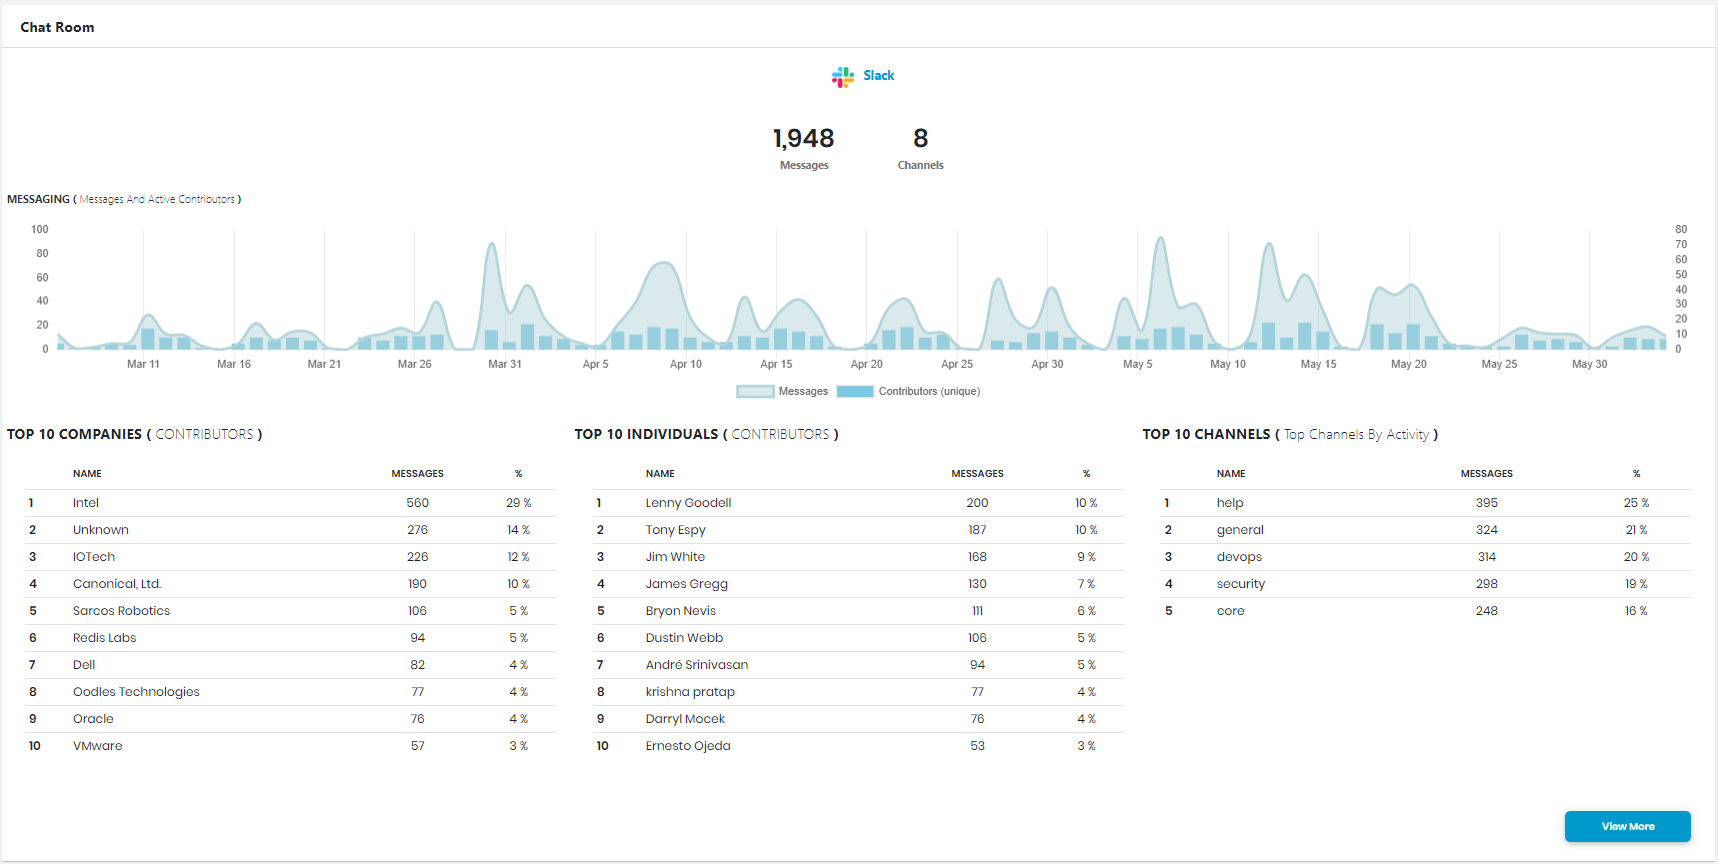
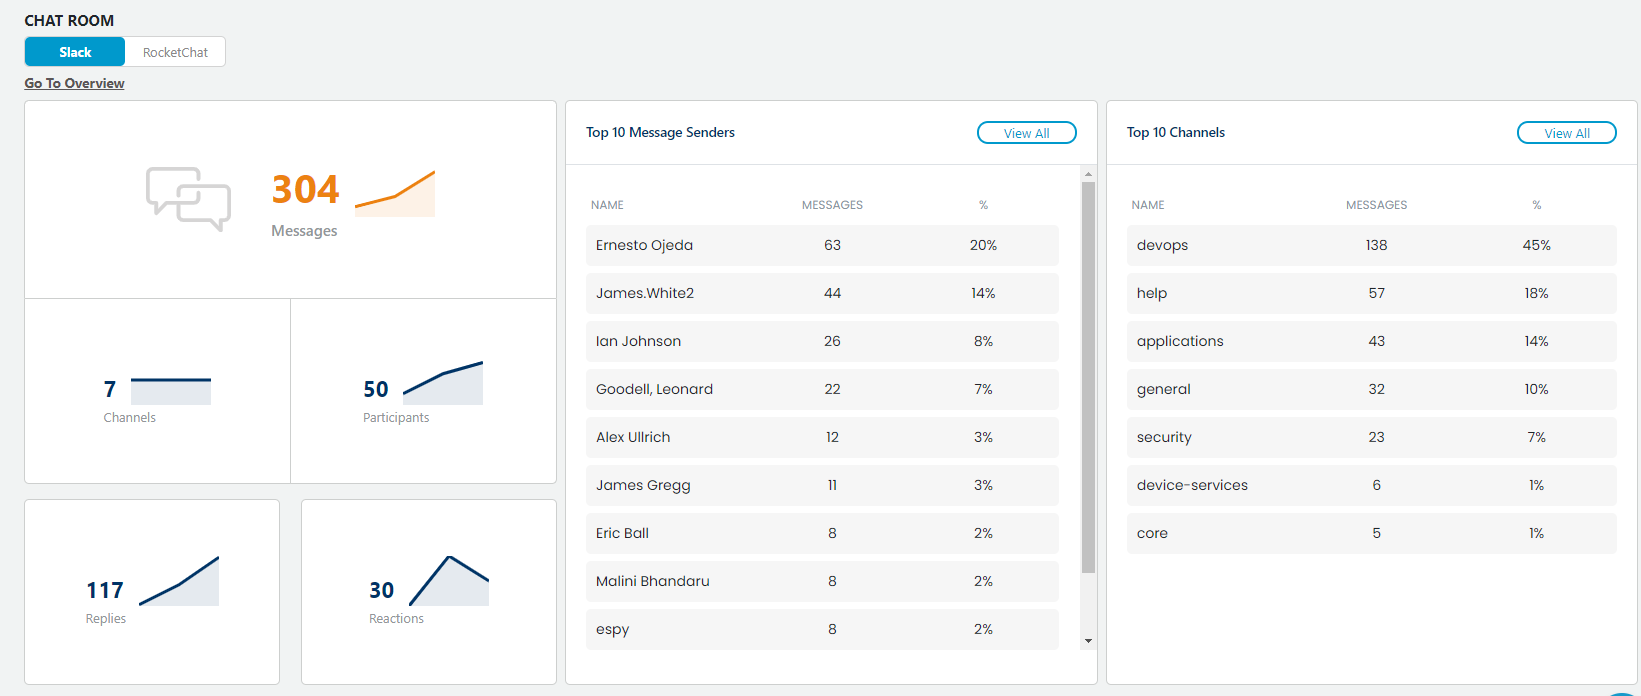
GitBook: [master] one page and 12 assets modified

diff --git a/communitybridge/insights/viewing-dashboards/summary.md b/communitybridge/insights/viewing-dashboards/summary.md
@@ -7,15 +7,24 @@ By default, Bot commit is filtered, and can't be included for Summary dashboard.
 Summary provides a high-level metrics about each data source for which the project is configured. Following are activities for quick navigation:
 
 * Click Copy Short URL ![](../../../.gitbook/assets/copy-short-url.png) to copy the link of summary dashboard for a project.
-* Select a value from Source Control drop down to quickly navigate to the respective section.   
+* Select a value from the drop down to quickly navigate to the respective section on Summary dashboard:
+  * [Source Control](summary.md#source-control)
+  * [Pull Requests / Changesets](summary.md#pull-requests-changesets)
+  * [Issue Management](summary.md#issue-management)
+  * [Chat Room](summary.md#chat-room)
+  * [Mailing List](summary.md#mailing-list)
+  * [Ci/Cd](summary.md#ci-cd)
+  * [Registry](summary.md#registry)
+  * [Documentation](summary.md#documentation)  ![](../../../.gitbook/assets/summary-drop-down.png)
 * Clicking sparklines ![](../../../.gitbook/assets/sparkly-lines.png)  opens a stacked bar graph that represents relevant data per calendar period.  ![](../../../.gitbook/assets/sparkly-line.png) 
 * Clicking numbers on a data card opens the respective dashboard.  ![](../../../.gitbook/assets/click-for-dashboard.png) 
+* While navigating from top to bottom on Summary dashboard, click ![](../../../.gitbook/assets/summary-dashboard-up-arrow.png) on the down right corner to reach to the top of the page.
 
 ### **SOURCE CONTROL**
 
 **Source Control** shows overview analytics of git commits for a selected time range. Default time range is **Last 90 Days**. You can [select a time range](../filtering-data/select-time-range.md) to view  data for the selected time range.
 
-* Clicking **Go To Overview** and **View All** takes you to the [Commits &gt; Overview](source-control/git.md) page.
+* Clicking **Go To Overview** and **View All** takes you to the respective table/chart/graph of [Commits &gt; Overview](source-control/git.md) page.
 
 ![Source Control](../../../.gitbook/assets/source-control%20%281%29.png)
 
@@ -49,26 +58,52 @@ Data is not available for a Git data source that is not configured for Community
 
 **Gerrit** shows total number of changesets \(both open and closed\), number of open changestes, average time in hours to merge changesets, average time in days for first review of changeset, and total number of approved changesets for a selected time range.
 
-* Clicking **Go To Overview** and **View All** under **Gerrit** takes you to the [Commits &gt; Overview](source-control/git.md) page.
+* Clicking **Go To Overview** and **View All** under **Gerrit** takes you to the respective table/graph/chart of [Gerrit Changesets &gt; Overview](pull-requests-changesets/gerrit-changestes.md#overview) section.
+
+![Gerrit Dashboard](../../../.gitbook/assets/changesets-gerrit.png)
 
 **GitHub** shows total number of pull requests \(both open and closed\), number of open pull requests, average time in hours to merge pull requests, and average time in hours pull requests were open for a selected time range.
 
+* Clicking **Go To Overview** and **View All** under **Gerrit** takes you to the respective table/chart/graph of [GitHub PR &gt; Overview](project-management/github-issues.md#overview) section.
+
+![GitHub Dashboard](../../../.gitbook/assets/pull-requests-github.png)
 
 
-Changesets shows total number of changesets
+
+**Top 10 Contributors** lists the top ten individuals—that contribute most to the project— by name, total number of lines of codes changed that includes lines of codes added plus modified, number of commits, and percentage of commits out of the total number of commits by the community.
+
+**Top 10 Companies**  lists the top ten companies—that contribute most to the project— by name, total number of lines of codes changed that includes lines of codes added plus modified, number of commits, and percentage of commits out of the total number of commits by the community.
+
+* Mouse over a color in the doughnut chart to view company name and number of commits made by the company. 
+* Click a company name to exclude company data. Click again to add the company data. Following is an example:  ![](../../../.gitbook/assets/top-10-companies.png)
+
+{% hint style="info" %}
+* **Unknown** as a company name shows number/percentage of codes submitted by those contributors who are not affiliated with any organization.
+* **Others** represents a group that combines all other companies that come after top nine companies that contributes more.
+{% endhint %}
 
 ### **ISSUE MANAGEMENT**
 
 **Issue Management** shows analytics of issue management platforms, such as Jira, GitHub Issues, and Bugzilla.
 
-**Issues** shows total number issues that includes both open and closed issues, total number of submitters, number of open issues, average time in days for which a stacked area chart that compares the number of issues and unique contributors per calendar period. The number of issues and unique contributors for the project during each period are color-coded. Hover mouse over the graph to see the numbers for a particular date. Click **Contributors \(unique\)** or **Issues** to eliminate the corresponding data, for example![](../../../.gitbook/assets/18088222.png). Click the caption again to include the data.
+**Jira** shows total number issues that includes both open and closed issues, total number of submitters, number of open issues, average time in days the issues are open, and time in days for which a stacked area chart compares the number of issues and unique contributors per calendar period.
+
+* Clicking **Go To Overview** and **View All** under **Jira** takes you to the respective table/chart/graph of [Jira &gt; Overview](project-management/jira.md#overview) section.
+
+**GitHub Issues** shows total number issues that includes both open and closed issues, total number of submitters, number of open issues, average time in days the issues are open and average time in days the issues took to be resolved.
+
+* Clicking **Go To Overview** and **View All** under **Github Issues** takes you to the respective table/chart/graph of [GitHub Issues &gt; Overview](project-management/github-issues.md#overview) section.
+
+**Bugzilla** shows total number issues that includes both open and closed issues, total number of submitters, number of open issues, total time in days the issues are open, and time in days issues took to be closed.
+
+* Clicking **Go To Overview** and **View All** under **Bugzilla** takes you to the respective table/chart/graph of [Bugzilla &gt; Overview](project-management/bugzilla.md#Bugzilla-Bugzilla>Overview) section.
 
 **Top 10 Submitters** lists the top ten individuals— that contribute most to the project— by name, total number of issues, and percentage of issues out of the total number of issues submitted by the community members.
 
 **Top 10 Companies** lists the top ten companies— that contribute most to the project— by name, total number of issues, and percentage of issues out of the total number of issues submitted by the community.
 
 Mouse over a color in the doughnut chart to view company name and number of commits made by the company. Click a company name to exclude company data. Click again to add the company data. Following is an example:  
- ![](../../../.gitbook/assets/show-and-exclude-company-data.png) 
+ ![](../../../.gitbook/assets/top-10-companies-github-issues.png) 
 
 {% hint style="info" %}
 * **Unknown** as a company name shows number/percentage of issues submitted by those contributors who are not affiliated with any organization.
@@ -81,21 +116,15 @@ Following an example of Issue Management overview section for a project that use
 
 ### **Chat Room**
 
-**Chat Room** shows an overview analytics of slack and RocketChat channels used by a project.
+**Chat Room** shows an overview analytics of Slack and RocketChat channels used by a project.
 
-**MESSAGING\(**Messages And Active Contributors**\)** shows a stacked area chart that compares the number of messages and unique contributors per calendar period. Hover mouse over the graph to see the numbers for a particular date. The number of messages and unique contributors for the project during each period are color-coded. Click **Contributors \(unique\)** or **Messages** to eliminate the corresponding data, for example ![](../../../.gitbook/assets/messages.png) . Click the caption again to include the data.
+**Slack** shows total number of messages, channels, participants, replies, and reactions over time. Clicking **Go To Overview** and **View All** under **Slack** takes you to the respective table/chart/graph of [Slack &gt; Overview](chat-room/slack.md#overview) section.
 
-**TOP 10 COMPANIES \(**CONTRIBUTORS**\)** lists the top ten companies— that communicate most in the project— by name, total number of messages, and percentage of messages out of the total number of messages shared by the community.
+**RocketChat** shows total number of messages, channels, participants, replies, and reactions over time. Clicking **Go To Overview** and **View All** under **RocketChat** takes you to the respective table/chart/graph of [RocketChat &gt; Overview](chat-room/rocket-chat.md#overview) section.
 
-{% hint style="info" %}
-* **Unknown** as a company name shows number/percentage of messages shared by those contributors who are not affiliated with any organization.
-{% endhint %}
+**Top 10 Message Senders** lists the top ten individuals—who communicate most in the project— by name, number of messages, and percentage of messages out of the total number of messages shared by the community.
 
-**TOP 10 INDIVIDUALS \(**CONTRIBUTORS**\)** lists the top ten individuals—that communicate most in the project— by name, total number of messages, and percentage of messages out of the total number of messages shared by the community.
-
-**TOP 10 CHANNELS \(Top Channels by Activity\)** lists the top ten slack channels where most amount of communication is happening. It shows the channel name, number of messages per channel, and percentage of messages per channel.
-
-Click **VIEW MORE** to go to [Slack Overview](chat-room/slack.md#Slack-Slack>Overview) dashboard to see metrics of slack channel.
+**Top 10 Channels** lists the top ten slack channels where most amount of communication is happening. It shows the channel name, number of messages per channel, and percentage of messages per channel. Following is an example of chat room dashboard:
 
 ![Chat Room](../../../.gitbook/assets/chat-room%20%281%29.png)
 
@@ -103,29 +132,21 @@ Click **VIEW MORE** to go to [Slack Overview](chat-room/slack.md#Slack-Slack>Ove
 
 **Mailing List** shows an overview analytics of email communication channels, such as Groups.io or Pipermail:
 
-A heading ****shows total number of emails shared by the community members, and  total number of e-mail lists created for communication.
+**Groups.Io** shows total number of emails, groups, companies, authors, and average number of messages communicated over time.
 
-**EMAILING \(**Emails And Active Contributors**\)** shows a stacked area chart that compares the number of emails and unique contributors per calendar period. Hover mouse over the graph to see the numbers for a particular date. The number of e-mails and unique contributors of the project during each period are color-coded. Click **Contributors \(unique\)** or **Emails** to eliminate the corresponding data, for example ![](../../../.gitbook/assets/emails.png) . Click the caption again to include the data.
+**Piper Mail** shows total number of emails, mailing lists, companies, authors, and average number of messages communicated over time.
 
-**TOP 10 COMPANIES \(**CONTRIBUTORS**\)** lists the top ten companies— that communicate most in the project— by name, total number of messages, and percentage of messages out of the total number of messages shared by the community.
+**Top 10 Email Senders** lists the top ten individuals—who communicate most in the project— by name, number of emails, and percentage of emails out of the total number of emails shared by the community.
 
-{% hint style="info" %}
-* **Unknown** as a company name shows number/percentage of messages shared by those contributors who are not affiliated with any organization.
-{% endhint %}
+**Top 10 mailing Lists** lists the top ten email lists where most number of communication is happening. It shows the list name, number of emails per list, and percentage of emails per list. 
 
-**TOP 10 INDIVIDUALS \(**CONTRIBUTORS**\)** lists the top ten individuals—that communicate most in the project— by name, total number of messages, and percentage of messages out of the total number of messages shared by the community.
-
-**TOP 10 Lists \(Top Lists by Activity\)** lists the top ten email lists where most amount of communication is happening. It shows the list name, number of messages per list, and percentage of messages per list.
-
-Click **VIEW MORE** to view metrics of the respective communication channel.
-
-![Mailing List](../../../.gitbook/assets/mailing-list%20%281%29.png)
+![Mailing List](../../../.gitbook/assets/mailing-list.png)
 
 ### **CI/CD**
 
-**CI/CD** shows an overview analytics of the number of servers, jobs, and build numbers of a project over time. Following is an example of Distribution overview section. Click **VIEW MORE** to view [Jenkins Overview](ci-cd/jenkins.md#overview) dashboard.
+**CI/CD** shows an overview analytics of the number of total builds, jobs, failed builds, job categories, and average build duration in minutes. Clicking **Go To Overview** and **View All** under **CI/CD** takes you to the respective table/chart/graph of [Jenkins &gt; Overview](ci-cd/jenkins.md#overview) section.
 
-![](../../../.gitbook/assets/ci-cd%20%281%29.png)
+![Ci/Cd](../../../.gitbook/assets/ci-cd.png)
 
 ### **Registry**
 
